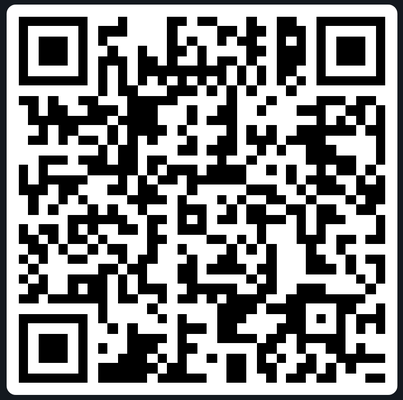
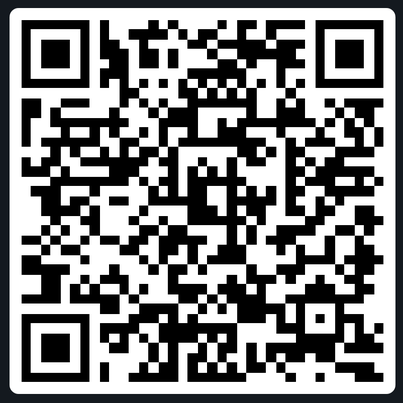
change image and remove links

diff --git a/src/components/banner.js b/src/components/banner.js
@@ -32,7 +32,7 @@ export default function Banner() {
                   className="button-primary"
                   onClick={() =>
                     window.open(
-                      'https://turtle-v2-artifacts.s3.amazonaws.com/android/e4a81826-7487-43d6-bd2b-972a7e90e334-83e31df809c34ddcb0890ec679ab160f/application-archive.apk',
+                      'https://turtle-v2-artifacts.s3.amazonaws.com/android/7ae90783-e331-4f61-bc89-7d31f143d3b2-3e4a437c7b27421ebc058ab26de410f2/application-archive.apk',
                       '_blank'
                     )
                   }

diff --git a/src/components/navBar.js b/src/components/navBar.js
@@ -22,20 +22,6 @@ export default function NavBar() {
             <li className="nav-link nav-header">RESKYUT</li>
           </ul>
         </div>
-        <div>
-          <ul className="nav-links">
-            <li className="nav-link">
-              <Link>Home</Link>
-            </li>
-            <li className="nav-link">
-              <a href="#download">Download</a>
-            </li>
-
-            <li className="nav-link">
-              <Link>Contact us</Link>
-            </li>
-          </ul>
-        </div>
       </nav>
     </div>
   );

diff --git a/src/components/contact-us.js b/src/components/contact-us.js
@@ -33,7 +33,9 @@ export default function ContactUs() {
   return (
     <div className="form-container">
       <div>
-        <h2 className="contact-header">Contact Us</h2>
+        <h2 className="contact-header" id="contact">
+          Contact Us
+        </h2>
       </div>
 
       <form className="form-group" onSubmit={sendEmail}>
